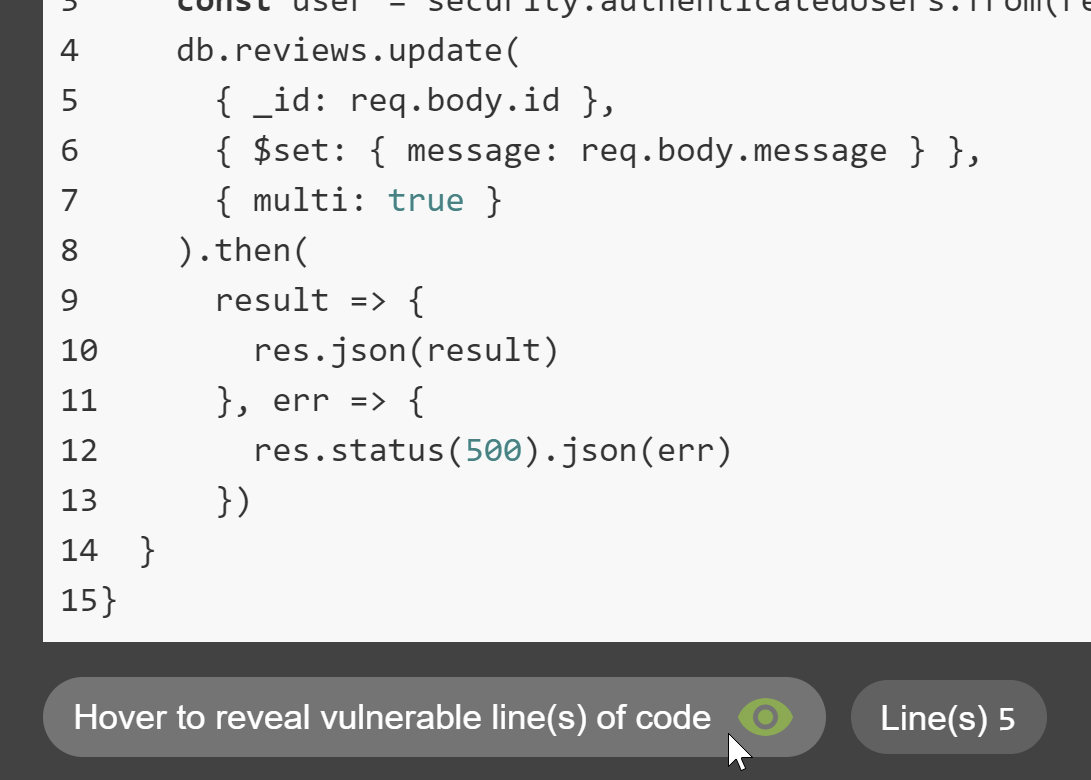
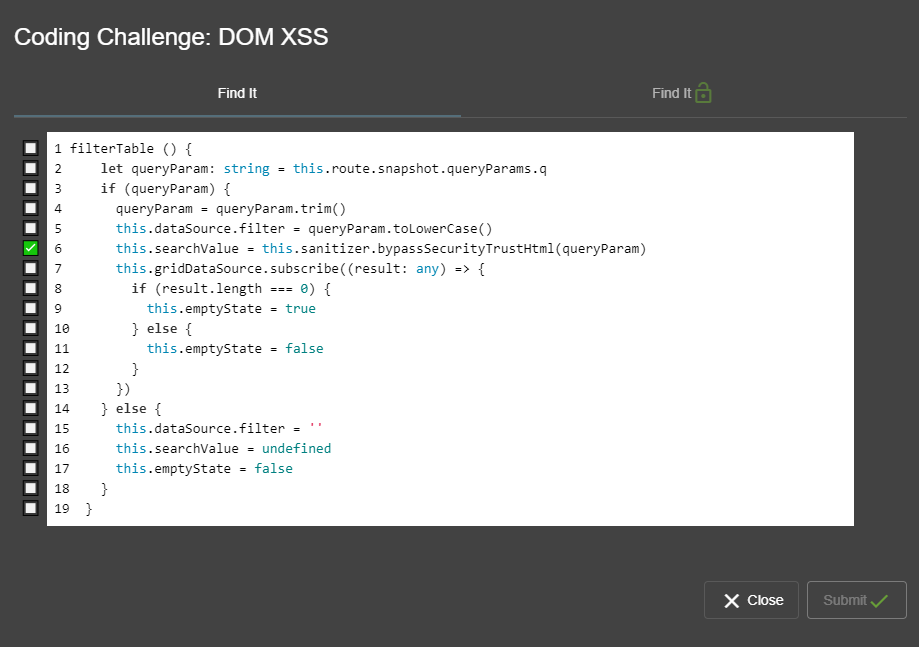
Extend code snippet docs to cover coding challenges

diff --git a/part1/customization.md b/part1/customization.md
@@ -227,7 +227,7 @@ Juice Shop.
 | `showSolvedNotifications`                  | Shows or hides all instant _"challenge solved"_-notifications. Recommended to set to `false` for awareness demos.                                                                                                                 | `true`                                                                                                                                                                                                                                                                                                            |
 | `showHints`                                | Shows or hides hints for each challenge on hovering over/clicking its _"unsolved"_ badge on the score board.                                                                                                                      | `true`                                                                                                                                                                                                                                                                                                            |
 | `showMitigations`                          | Shows or hides a mitigation link for each solved challenge on the score board (if available).                                                                                                                                     | `true`                                                                                                                                                                                                                                                                                                            |
-| `showCodeSnippets`                         | Shows or hides the underlying vulnerable code snippet for each challenge on the score board (if available). Can be `none`, `solved` or `always`.                                                                                  | `always`                                                                                                                                                                                                                                                                                                          |
+| `showCodeSnippets`                         | Shows or hides the associated [Coding challenge](../part1/challenges.md#coding-challenges) for each challenge (if available) on the score board. Can be `never`, `solved` (to show but disable the corresponding button until the hacking challenge is solved) or `always`.                                                                                  | `solved`                                                                                                                                                                                                                                                                                                          |
 | `restrictToTutorialsFirst`                 | Disables all _Score Board_ filter options and hides those of the {{book.juiceShopNumberOfChallenges}} challenges without a tutorial until all challenges with a tutorial have been solved.                                        | `false`                                                                                                                                                                                                                                                                                                           |
 | `overwriteUrlForProductTamperingChallenge` | URL that should replace the original URL defined in `urlForProductTamperingChallenge` for the [Product Tampering](../part2/broken-access-control.md#change-the-href-of-the-link-within-the-o-saft-product-description) challenge. | `https://owasp.slack.com`                                                                                                                                                                                                                                                                                         |
 | `xssBonusPayload`                          | This XSS payload is expected during the [Bonus Payload](../part2/xss.md#use-the-bonus-payload-in-the-dom-xss-challenge) challenge.                                                                                                | `'<iframe width="100%" height="166" scrolling="no" frameborder="no" allow="autoplay" src="https://w.soundcloud.com/player/?url=https%3A//api.soundcloud.com/tracks/771984076&color=%23ff5500&auto_play=true&hide_related=false&show_comments=true&show_user=true&show_reposts=false&show_teaser=true"></iframe>'` |
@@ -395,6 +395,8 @@ application:
 challenges:
   showSolvedNotifications: true
   showHints: true
+  showMitigations: true
+  showCodeSnippets: solved # Options: never  solved  always
   restrictToTutorialsFirst: false
   safetyOverride: false
   overwriteUrlForProductTamperingChallenge: 'https://owasp.slack.com'

diff --git a/appendix/code-snippets.md b/appendix/code-snippets.md
@@ -1,15 +1,21 @@
-# Vulnerable code snippets
+# Coding challenges
 
-Starting with `v12.7.0`, Juice Shop allows associating vulnerable code
-snippets with hacking challenges. These will be displayed on the Score
-Board with the click of a button
-[as briefly illustrated in Part 1 of this book](../part1/challenges.md#vulnerable-code-snippets).
+Starting with `v12.9.0`, OWASP Juice Shop offers a new developer-focused challenge for
+some of its existing hacking challenges: Coding challenges. These were [briefly illustrated in Part 1 of this book](../part1/challenges.md#coding-challenges)
+from a user's perspective. This appendix explains how a coding challenge can be added
+to newly created hacking challenges.
 
-To outfit new challenges with such a code snippet, some conditions must
-be met, and a certain syntax for marking the code snippet have to be
-used.
+Each coding challenge consists of two phases:
 
-## Supported source files
+1. **Find It** where the user is tasked to select vulnerable line(s) of code in an actual code snippet from Juice Shop
+2. **Fix It** where the user is presented with 3-4 options to choose from to fix that vulnerability and has to decide which one would be the best
+
+## Vulnerable code snippets
+
+Juice Shop allows associating its own vulnerable code with its own hacking challenges. To outfit new challenges with
+such a code snippet, some conditions must be met, and a certain syntax for marking the code snippet have to be used.
+
+### Supported source files
 
 Juice Shop will perform a lookup for code snippets in these source files
 or folders:
@@ -45,9 +51,9 @@ a leading `//` or `#` for a single-line comment. This makes them usable
 in TypeScript, JavaScript and YAML files, but not in HTML. Code markers
 are only found in files residing in one of the above-mentioned folders.
 
-### Complete examples
+#### Complete examples
 
-#### TypeScript
+##### TypeScript
 
 The following code shows markers for two challenges with the same
 vulnerable line, and a hidden code block:
@@ -119,7 +125,7 @@ function handleZipFileUpload ({ file }, res, next) {
 // vuln-code-snippet end fileWriteChallenge
 ```
 
-#### YAML
+##### YAML
 
 In this example, multiple challenges are defined in a shared code block
 but each with their own vulnerable line:
@@ -157,14 +163,14 @@ but each with their own vulnerable line:
 # vuln-code-snippet end resetPasswordBjoernOwaspChallenge resetPasswordBjoernChallenge resetPasswordJimChallenge resetPasswordBenderChallenge resetPasswordUvoginChallenge
 ```
 
-### Overlapping markers
+#### Overlapping markers
 
 After a code snippet has been retrieved and processed, all "dangling"
 markers inside starting with `vuln-code-snippet` will be removed. This
 allows to have overlapping `start` and `end` blocks for different
 challenges that might share some but not all code.
 
-## REST endpoints
+### REST endpoints
 
 The Score Board retrieves the actual code snippets via two REST
 endpoints:
@@ -176,7 +182,7 @@ endpoints:
   list of vulnerable lines in JSON format (e.g. `{"snippet":"filterTable
   () {\n let queryParam: string = ... }\n }","vulnLines":[6]}`)
 
-### Error handling
+#### Error handling
 
 The following errors can occur when calling the REST endpoints:
 
@@ -186,7 +192,7 @@ The following errors can occur when calling the REST endpoints:
 | `/snippets/<challengeKey>` | `404`            | `No code snippet available for: <challengeKey>`      |
 | `/snippets/<challengeKey>` | `422`            | `Broken code snippet boundaries for: <challengeKey>` |
 
-### Real-time retrieval
+#### Real-time retrieval
 
 As the code snippets are retrieved in real-time from the actual code
 base, all changes to the marker syntax while the application is running
@@ -194,3 +200,7 @@ are immediately applied and can be tested by re-opening the particular
 snippet from the Score Board. Newly added code snippets are similarly
 recognized by reloading the Score Board page. No frontend complation or
 server restart is required.
+
+## Fix option files
+
+🛠 **TODO**

diff --git a/part1/challenges.md b/part1/challenges.md
@@ -252,29 +252,46 @@ with all challenges is shown and all filters are enabled. Passing in the
 
 ![Locked advanced filters in tutorial mode](img/tutorial-mode3.png)
 
-## Vulnerable code snippets
+{% endif %}
 
-For many (solved) challenges an additional button is displayed on the
+## Coding challenges
+
+For many (solved) challenges an additional button is available on the
 Score Board which  
 will open a dialog containing the actual code snippet responsible for
-the vulnerability.
+the security vulnerability behind the particular challenge. Note that by default
+this button is only enabled for solved hacking challenges. For challenge where
+no such button is shown, there is no coding challenge available.
 
-![Code snippet button for a challenge on the Score Board](img/code_snippet1.png)
+![Coding challenge button for a challenge on the Score Board](img/code_snippet1.png)
 
 This snippet is loaded in real-time from the running application's
 actual code base and is sanitized to not show any "challenge check" or
 similar code that would not be present in a real-world application.
 
-![Code snippet dialog for a hacking challenge](img/code_snippet2.png)
+![Code snippet for a hacking challenge](img/code_snippet2.png)
 
-The user can try to identify the actually line(s) of code responsible
-for the vulnerability behind the particular challenge. To verify their
-deduction, they can simply hover over the spoiler badge below the
-snippet, to reveal those line numbers.
+The user can try to identify the actual line(s) of code responsible
+for the vulnerability behind the particular challenge. When they submit
+their selection, the server will provide feedback on the choice.
 
-![Vulnerable code line hover spoiler for a hacking challenge](img/code_snippet3.png)
+![Correctly identified vulnerable line of code for a coding challenge](img/code_snippet3.png)
 
-{% endif %}
+If the correct line(s) were submitted, the user will be presented with 3-4
+possible options to fix the vulnerability. They can use the built-in code
+comparison to view them and then make a selection of what they think to be
+the correct fix. Submitting their choice to the server will again lead to
+feedback.
+
+![One of four possible fixes for a coding challenge](img/code_snippet4.png)
+
+The progress with coding challenges is not factored into the percentage bar at the top
+of the Score Board. For each coding challenge the current status is represented
+by the button to launch it. Once the "Find It" and "Fix It" part are solved, the
+button turns green. While only the "Find It" part was solved, a small green "1/2"-badge
+indicates having made it half-way.
+
+![Progress with coding challenges indicated by their launch button](img/code_snippet5.png)
 
 ## Mitigation links
 
